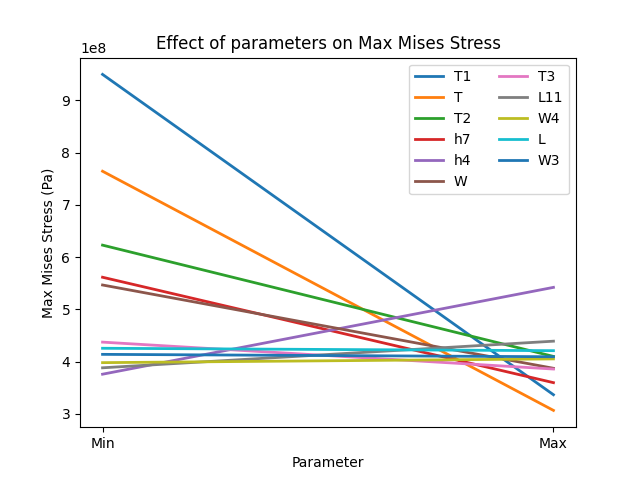
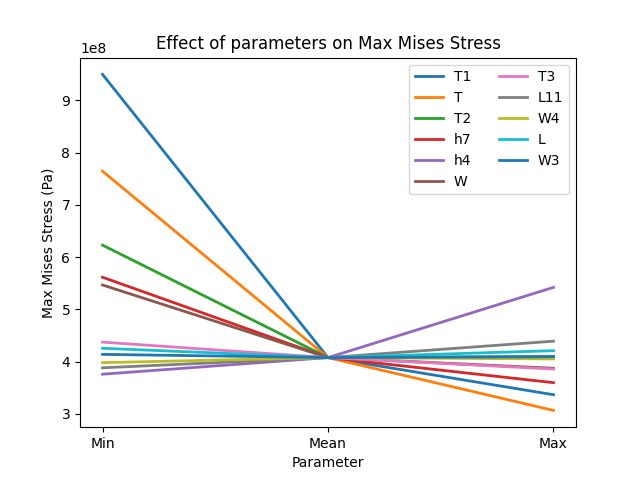
More Factor Effects Plots
- Created factor effects plots with the mean value for SA:V, max mises stress, and max displacement

diff --git a/preliminary_analysis_data/factor_effects_plot.py b/preliminary_analysis_data/factor_effects_plot.py
@@ -2,17 +2,24 @@
 import matplotlib.pyplot as plt
 import numpy as np
 
-ind = 3 # index of data to be used for sorting
-nameind = 1 # index of name of parameter
+ind = 4 # index of data to be used for sorting
+nameind = 2 # index of name of parameter
+loadn = 2 # load case (1 or 2)
 
 # read in data
-with open('preliminary_analysis_data/PostDataLoad1.txt', 'r') as f:
+with open(f'preliminary_analysis_data/PostDataLoad{loadn}.txt', 'r') as f:
     data = [row.split(', ') for row in f.read().split('\n')]
     header = data.pop(0)
     data.pop() # removes last empty row
     for i in range(len(data)): # converting strings to floats
         for j in range(nameind+1, len(data[i])):
             data[i][j] = float(data[i][j])
+# read in mean data
+with open(f'preliminary_analysis_data/PostDataLoad{loadn}Mean.txt', 'r') as f:
+    mdata = [row.split(', ') for row in f.read().split('\n')]
+    mdata.pop(0)
+    mdata.pop() # removes last empty row
+    mean = float(mdata[0][ind])
 
 # Sorting Data by impact on SA:V
 paramdict = {}
@@ -26,7 +33,7 @@ paramdict = dict(sorted(paramdict.items(), reverse=True, key=lambda x:x[1]))
 
 datadict = {}
 for i in range(0, len(data), 2):
-    datadict[data[i][nameind]] = [data[i][ind], data[i+1][ind]]
+    datadict[data[i][nameind]] = [data[i][ind], mean, data[i+1][ind]]
 for k, v in paramdict.items():
     paramdict[k] = datadict[k]
 
@@ -37,8 +44,8 @@ for k, v in paramdict.items():
 fig, ax = plt.subplots()
 for k, v in paramdict.items():
     name = k
-    x = np.array(['Min', 'Max'])
-    y = np.array([v[0], v[1]])
+    x = np.array(['Min', 'Mean', 'Max'])
+    y = np.array([v[0], v[1], v[2]])
     ax.plot(x,y, label=name, linewidth = 2.0)
     ax.set_xlabel('Parameter')
     ax.set_ylabel('Max Mises Stress (Pa)')
